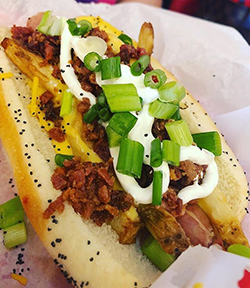
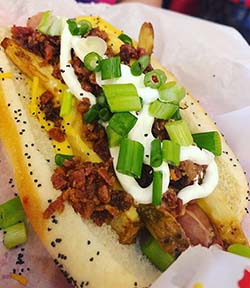
compress images, use jpg when possible

diff --git a/src/containers/InfoPage/InfoPage.js b/src/containers/InfoPage/InfoPage.js
@@ -5,9 +5,9 @@ import logo from '../../assets/images/dog-icon.png';
 import Button from '../../components/UI/Button/Button';
 import InfoRow from '../../components/InfoRow/InfoRow';
 
-import image1 from '../../assets/images/main-dog-1.png';
-import image2 from '../../assets/images/main-dog-2.png';
-import image3 from '../../assets/images/main-dog-3.png';
+import image1 from '../../assets/images/main-dog-1.jpg';
+import image2 from '../../assets/images/main-dog-2.jpg';
+import image3 from '../../assets/images/main-dog-3.jpg';
 
 
 
